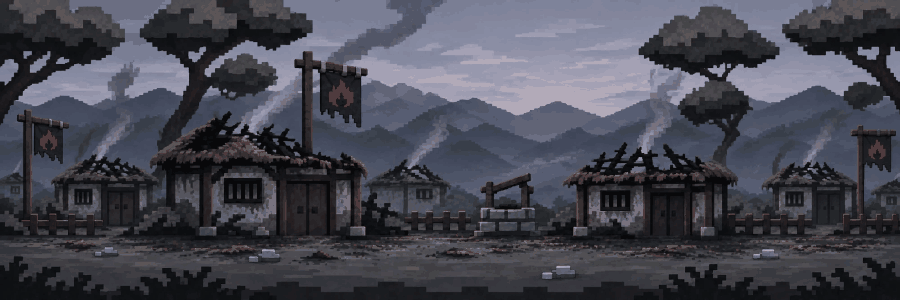
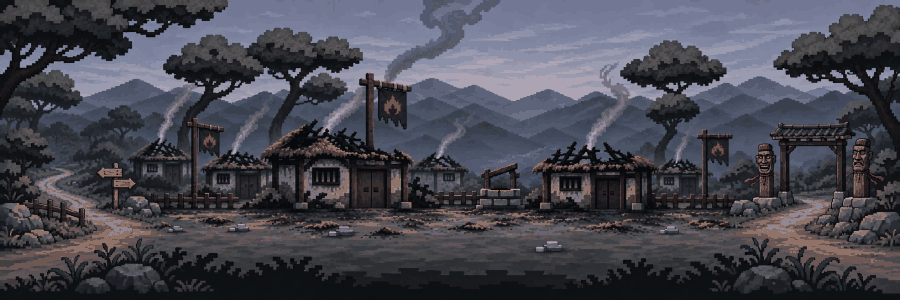
Story art: Heuksa attack/kick/guard/hit/kneel and his three skills, Danwoo's skill frames, cultist strike/hit/fallen, wider grey-dawn village with the west road and the jangseung gate; foes mix kicks into their plain attacks
Claude-Session: https://claude.ai/code/session_019D5KftdDEDaYgXZVtoNLE8

diff --git a/web/src/field.ts b/web/src/field.ts
@@ -238,7 +238,7 @@ function exec(s: Step): boolean {
       const foes: Foe[] = list.map((e, i) => {
         // with several: alternate sides, the first in front (where it stands), the second behind the player
         const side = list.length > 1 && i % 2 === 1 ? -(e.x > p.x ? 1 : -1) : e.x > p.x ? 1 : -1;
-        return { e, atk: -1, cool: 30 + i * 25, hit: 0, mv: null, ng: 500, g: 0, x0: e.x, out: false, side };
+        return { e, bn: "atk", atk: -1, cool: 30 + i * 25, hit: 0, mv: null, ng: 500, g: 0, x0: e.x, out: false, side };
       });
       duel = { foes, foe: list[0], need: Number(s.hits ?? 0), time: Number(s.time ?? 0), guard: !!s.guard, t: 0, hits: 0, pAtk: -1, pHit: 0, mv: MOVES[0],
         hpMode, dmg: Number(s.dmg ?? 8), block: Number(s.block ?? 0), ko: 0, px0: p.x, pNg: 1000, pG: mCarryG, ngFlash: 0, hist: [] };
@@ -271,7 +271,7 @@ function setPose(e: Ent, p: string): void {
   if (p === "idle") { setSt(e, ST_IDLE); return; }
   const k = e.kit;
   const base = k.base ?? e.look[0];
-  const id = p === "down" ? k.down1 : p === "crouch" ? k.crouch : p === "hit" ? k.hit : hasSprite(base + "." + p) ? spriteId(base + "." + p) : -1;
+  const id = hasSprite(base + "." + p) ? spriteId(base + "." + p) : p === "down" ? k.down1 : p === "crouch" ? k.crouch : p === "hit" ? k.hit : -1;
   if (id < 0) return;
   e.pose = id; setSt(e, ST_POSE);
 }
@@ -754,7 +754,7 @@ function titleRender(): void {
 // ---------------------------------------------------------------- duels: a short SD fight right where the scene is
 
 // one opponent in a duel: its own wind-up, cool-down, stagger, move, 내공, 궁극 gauge, starting spot and side of the player
-interface Foe { e: Ent; atk: number; cool: number; hit: number; mv: DuelMove | null; ng: number; g: number; x0: number; out: boolean; side: number }
+interface Foe { e: Ent; bn: string; atk: number; cool: number; hit: number; mv: DuelMove | null; ng: number; g: number; x0: number; out: boolean; side: number }
 interface Duel {
   foes: Foe[]; foe: Ent;                                  // foe = the one shown in the top-right bars (the last one struck)
   need: number; time: number; guard: boolean; t: number; hits: number; pAtk: number; pHit: number; mv: DuelMove;
@@ -883,7 +883,8 @@ function duelTick(): void {
   else if (d.pAtk >= 0) {
     d.pAtk++;
     const mv = d.mv, dir = p.face;
-    showPose(p, frame(p, d.pAtk < mv.wind ? [mv.name + "_0", ...ATK0] : [mv.name + "_1", ...ATK1]));
+    const alt = mv.name === "hvy" ? "atk" : mv.name === "hkick" ? "kick" : mv.name;
+    showPose(p, frame(p, d.pAtk < mv.wind ? [mv.name + "_0", alt + "_0", ...ATK0] : [mv.name + "_1", alt + "_1", ...ATK1]));
     const ahead = near(p.x + dir * 30);
     if (mv.dash && d.pAtk < mv.wind && !(ahead && (ahead.e.x - p.x) * dir > 0 && Math.abs(ahead.e.x - p.x) < 18)) p.x += dir * mv.dash / mv.wind;
     if (d.pAtk === mv.wind) {
@@ -938,7 +939,7 @@ function duelTick(): void {
     if (o.atk >= 0) {
       o.atk++;
       const mv = o.mv, w = mv ? Math.round(mv.wind * DIFF.wind[mDiff] / 10) : d.hpMode ? DIFF.wind[mDiff] : 10;
-      showPose(f, frame(f, o.atk < w ? (mv ? [mv.name + "_0", ...ATK0] : ATK0) : (mv ? [mv.name + "_1", ...ATK1] : ATK1)));
+      showPose(f, frame(f, o.atk < w ? [(mv ? mv.name : o.bn) + "_0", ...ATK0] : [(mv ? mv.name : o.bn) + "_1", ...ATK1]));
       if (mv?.dash && o.atk < w && dist > 18) f.x += toP * mv.dash / w;
       if (o.atk === w && Math.abs(f.x - p.x) < (mv ? mv.reach : 30) && d.pAtk < 0 && d.ko === 0) {
         FX.spawnHit(p.x - camX - toP * 4, p.y - 14, !!mv, mv && boss ? "heukrim" : "");
@@ -980,7 +981,7 @@ function duelTick(): void {
       const step = Math.sign(goal - f.x) * (Math.abs(goal - f.x) > 30 ? 1.2 : 0.7);   // hurry round to its side, then edge in
       f.x += step; f.face = toP;
       if (f.st !== ST_WALK) setSt(f, ST_WALK); else f.t++;
-    } else if (front && o.cool <= 0 && dist <= 26) { o.mv = null; o.atk = 0; }
+    } else if (front && o.cool <= 0 && dist <= 26) { o.mv = null; o.atk = 0; o.bn = hasSprite((f.kit.base ?? f.look[0]) + ".kick_0") && Math.random() < 0.4 ? "kick" : "atk"; }
     else if (f.st !== ST_IDLE) setSt(f, ST_IDLE);
   }
   if (map) { p.x = Math.max(6, Math.min(map.w - 6, p.x)); for (const o of d.foes) o.e.x = Math.max(6, Math.min(map.w - 6, o.e.x)); }

diff --git a/web/src/plays.ts b/web/src/plays.ts
@@ -294,6 +294,7 @@ export const PLAYS: Record<string, Record<number, Step[]>> = {
       { t: "move", id: "heuksa", x: "player", dx: 26, speed: 1, wait: true },
       { t: "duel", foe: "heuksa", hp: 110, dmg: 12, block: 0.22, text: "흑사를 쓰러뜨리시오" },
       { t: "face", id: "heuksa", to: "player" },
+      { t: "pose", id: "heuksa", pose: "down" },                 // beaten: down on one knee
       { t: "ev", sec: "post", a: 0, b: 3 },
       { t: "vanish", id: "heuksa" },
       { t: "narr", text: "흑사가 연막을 터뜨리고 사라진다." },
